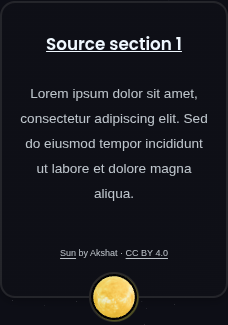
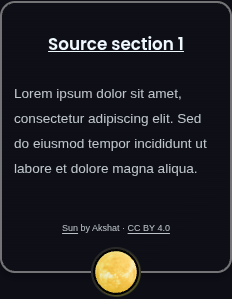
Animate card borders and refine inset text alignment

diff --git a/src/components/cards/newUserCard/NewUserCard.tsx b/src/components/cards/newUserCard/NewUserCard.tsx
@@ -1,4 +1,5 @@
-import { useLayoutEffect, useRef, useState, type ReactNode } from 'react'
+import { useEffect, useLayoutEffect, useRef, useState, type ReactNode } from 'react'
+import { animate, motion, useMotionValue, useMotionTemplate } from 'framer-motion'
 import Tilt from 'react-parallax-tilt'
 import SunScene from '../../react three fibre/sunScene/SunScene'
 import { useCalendarMotionPreferences } from '../../calendarMotion/useCalendarMotionPreferences'
@@ -19,6 +20,14 @@ const tileNames = [
 ] as const
 const loaderNames = ['loader', 'loader2', 'loader3', 'loader4', 'loader5', 'loader6'] as const
 
+const COLOURS = [
+  'rgba(159, 158, 158, 0.7)',
+  'rgba(159, 158, 158, 0.5)',
+  'rgba(130, 129, 129, 0.35)',
+  'rgba(189, 188, 188, 0.2)',
+  'rgba(159, 158, 158, 0.17)',
+]
+
 export default function NewUserCard({
   headingId,
   title,
@@ -27,6 +36,8 @@ export default function NewUserCard({
   borderTone = 'aliceblue',
 }: NewUserCardProps) {
   const { reducedMotion, coarsePointer } = useCalendarMotionPreferences()
+  const colour = useMotionValue(COLOURS[0])
+  const border = useMotionTemplate`2px solid ${colour}`
   const frame = useRef<HTMLDivElement>(null)
   const [insideParentTilt, setInsideParentTilt] = useState(false)
   const [focusWithin, setFocusWithin] = useState(false)
@@ -35,6 +46,21 @@ export default function NewUserCard({
   useLayoutEffect(() => {
     setInsideParentTilt(Boolean(frame.current?.parentElement?.closest('.calendar-panel-tilt')))
   }, [])
+
+  useEffect(() => {
+    if (reducedMotion) {
+      colour.set(COLOURS[0])
+      return
+    }
+
+    const controls = animate(colour, COLOURS, {
+      ease: 'easeInOut',
+      duration: 10,
+      repeat: Infinity,
+      repeatType: 'mirror',
+    })
+    return () => controls.stop()
+  }, [colour, reducedMotion])
 
   return (
     <div
@@ -56,11 +82,11 @@ export default function NewUserCard({
         tiltAngleXManual={tiltEnabled ? null : 0}
         tiltAngleYManual={tiltEnabled ? null : 0}
       >
-        <section
+        <motion.section
           className={styles.main}
           aria-labelledby={headingId}
           data-border-tone={borderTone}
-          style={{ width: '100%', minWidth: 0, height: 'auto', overflowWrap: 'anywhere' }}
+          style={{ width: '100%', minWidth: 0, height: 'auto', overflowWrap: 'anywhere', border }}
         >
           <div className={styles.tiles} aria-hidden="true">
             {tileNames.map(name => <div key={name} className={styles[name]} />)}
@@ -83,7 +109,7 @@ export default function NewUserCard({
           </div>
 
           <div className={`entry-form source-content ${styles.body}`}>{children}</div>
-        </section>
+        </motion.section>
       </Tilt>
     </div>
   )

diff --git a/src/components/cards/newUserCard/newUser.module.css b/src/components/cards/newUserCard/newUser.module.css
@@ -31,13 +31,13 @@
   width: 100%;
   min-width: 0;
   height: auto;
-  border: 2px solid rgba(90, 89, 89, 0.295);
+  border: 2px solid rgba(159, 158, 158, 0.7);
   border-radius: 15px;
   background: linear-gradient(135deg, #1b1b1d1e 75%, #1e1e1e1e 100%);
   box-shadow: 0 4px 8px rgba(0, 0, 0, 0.2);
   backdrop-filter: blur(20px);
   -webkit-backdrop-filter: blur(20px);
-  transition: box-shadow 0.3s ease, border 0.3s ease;
+  transition: box-shadow 0.3s ease;
   overflow: visible;
   isolation: isolate;
   cursor: default;
@@ -69,7 +69,6 @@
 
 .main:hover {
   box-shadow: 0 12px 26px rgba(0, 0, 0, 0.4);
-  border-color: rgba(149, 149, 149, 0.295);
   background: linear-gradient(135deg, #1b1b1d1e 75%, #1f1f1f1e 100%);
 }
 
@@ -230,7 +229,7 @@
   z-index: 2;
   width: 100%;
   min-width: 0;
-  padding: 12px 18px 90px;
+  padding: 12px 18px 90px 12px;
   overflow: visible;
   user-select: text;
 }
@@ -240,7 +239,7 @@
   font-size: 0.85rem;
   font-weight: 500;
   line-height: 1.85;
-  text-align: center;
+  text-align: left;
   white-space: pre-wrap;
   color: rgba(240, 248, 255, 0.78);
   user-select: text;

diff --git a/tests/sun-scene.test.tsx b/tests/sun-scene.test.tsx
@@ -36,6 +36,8 @@ function browserEnvironment({ visible = true, reduced = false } = {}) {
       matches,
       addEventListener: vi.fn((_type: string, callback: () => void) => listeners.add(callback)),
       removeEventListener: vi.fn((_type: string, callback: () => void) => listeners.delete(callback)),
+      addListener: vi.fn(),
+      removeListener: vi.fn(),
     }
     return { media, listeners }
   }

diff --git a/tests/new-user-card.test.tsx b/tests/new-user-card.test.tsx
@@ -11,6 +11,8 @@ function motionPreferences() {
       matches: false,
       addEventListener: vi.fn((_type: string, callback: () => void) => listeners.add(callback)),
       removeEventListener: vi.fn((_type: string, callback: () => void) => listeners.delete(callback)),
+      addListener: vi.fn(),
+      removeListener: vi.fn(),
     }
     return {
       media,

diff --git a/src/components/sources/SourceSections.tsx b/src/components/sources/SourceSections.tsx
@@ -19,6 +19,7 @@ export default function SourceSections({
         minWidth: 0,
         marginTop: sections.length ? 24 : 0,
         padding: sections.length ? 'clamp(8px, 1.5vw, 16px)' : 0,
+        paddingLeft: sections.length ? 'clamp(4px, 0.75vw, 8px)' : 0,
       }}
     >
       {sections.map((section, index) =>

diff --git a/docs/calendar-new-user-card-provenance.md b/docs/calendar-new-user-card-provenance.md
@@ -27,7 +27,8 @@ SunScene lazy-loads `SunRenderer`. The renderer owns the Canvas, lighting, contr
 | --- | --- |
 | Card | Original translucent 135-degree gradient, 15px radius, 2px gray border, 20px backdrop blur, hover glow, decorative tile grid and loaders. |
 | Size | Original 374px width becomes a 374px maximum and available-width layout. Height follows the section's content. |
-| Title | Poppins 600, underlined; existing unique heading IDs and optional controls remain accessible. |
+| Title and content | Poppins 600, underlined and centred; flavour text is left-aligned with a 12px left inset. Existing unique heading IDs and optional controls remain accessible. |
+| Panel border | The source icon-ring's five gray colours animate the full 2px panel edge over 10 seconds with `easeInOut`, infinite mirror repeats, cleanup on unmount, and a static first colour for reduced motion. CSS border transitions and hover overrides are removed so they do not compete with the motion value. |
 | Badge | 50px circle, black `#030304` ground, gray 2px edge and yellow shadow, centred at the lower card edge. Absolute positioning replaces the source's transformed fixed positioning so each badge follows its own card. A 26px frame reserve prevents overlap with the next card. |
 | Sun mesh | Original GLTF node `Sphere_Material002_0` and material `Material.002`; group scale `0.0285`, mesh scale `100`, rotation `[-Math.PI / 2, 0, 0]`, `dispose={null}`. |
 | Animation | Original Y increment `-0.0075` per frame. Reduced motion disables automatic rotation while retaining user-controlled orbit. |
@@ -37,6 +38,8 @@ SunScene lazy-loads `SunRenderer`. The renderer owns the Canvas, lighting, contr
 Vite uses React lazy/Suspense in place of Next dynamic imports. The original model preload points to `/sun.gltf`, which disagrees with its actual model path; that preload is omitted. Registration forms, Home navigation and the source's artificial loading timer are outside this reusable visual card. Existing section content and native controls remain usable while the real scene loads or fails.
 
 Source CSS IDs are scoped classes, preventing duplicate IDs when several cards exist. Text stays selectable, and decorative layers do not intercept content. The existing `borderTone` field remains accepted as a data attribute; the new visual presentation uses Calendar4's neutral gray and green-hover palette.
+
+The generated list keeps responsive 8–16px padding on its top, right and bottom; left padding is half that amount (4–8px). An empty list has zero padding. All 12 source tiles and six loader elements remain in the decorative layer.
 
 ## Dependencies and assets
 
@@ -68,6 +71,7 @@ Poppins is copyright The Poppins Project Authors under SIL Open Font License 1.1
 - Scrolling badges offscreen unmounts their canvases and produces actual WebGL context-loss events from renderer disposal. Scrolling back creates a working renderer again.
 - The production preview loads the sun, buffer, texture, HDR and Poppins font with HTTP 200 under `/first-light/`, while the existing stars background remains active.
 - Layout checks at 1440, 768, 390 and 320px show no horizontal overflow. The badge stays at the card's lower centre, content remains intact after unrelated updates, and generated sections remain in their parent below Add source.
+- The animated panel border changes through the source gray palette without changing its 2px width or card dimensions, freezes at the first colour under reduced motion, and coexists with all 12 tiles and six hover loaders. Left padding is exactly half the right padding across the four checked widths; flavour text remains left-aligned with a 12px inset while headings remain centred.
 
 Production previews: [cards](previews/calendar-new-user-cards.png) and [narrow card](previews/calendar-new-user-card-mobile.png).
 
